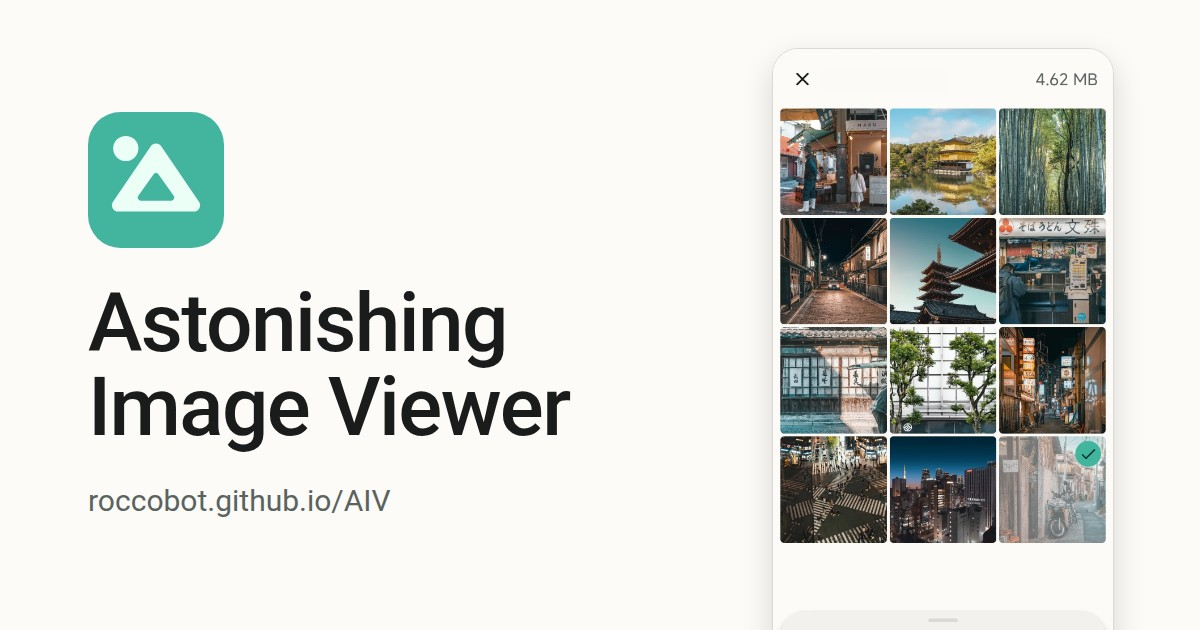
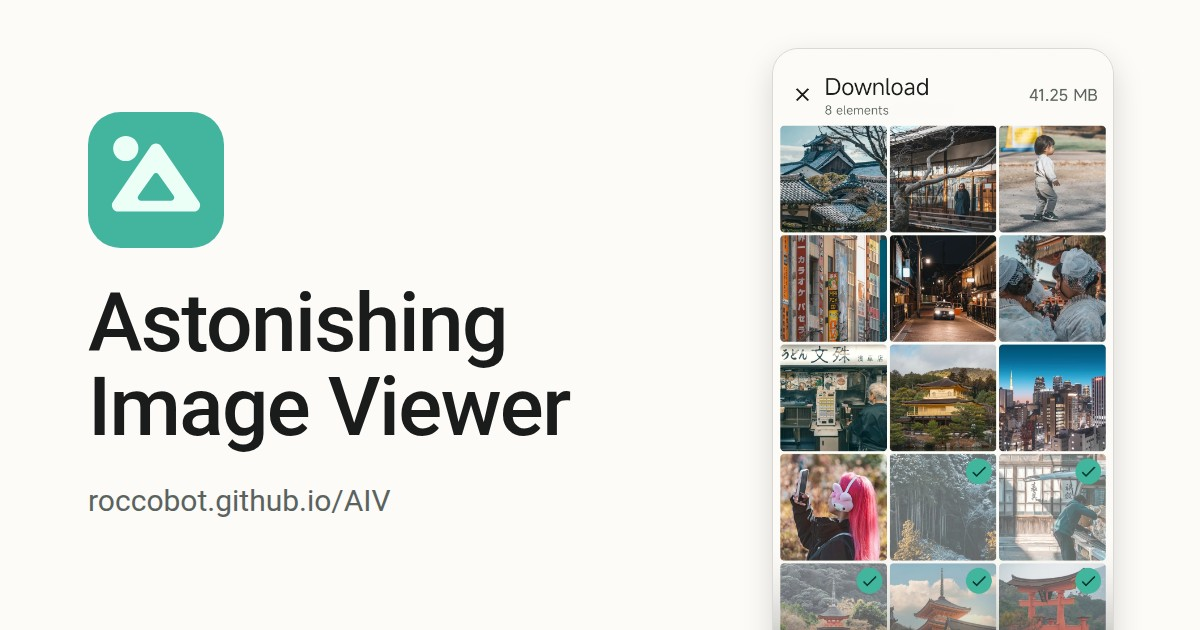
AIV/: l'anteprima del link con la schermata verticale nuova
Copia di publish/ del repo di AIV (Roccobot/AIV#740, scelta Seguito-01):
anteprima.jpg rifatta con la schermata verticale chiara, la nota di
index.html aggiornata, e schermate/chiara.webp e scura.webp tolte, perché
non le legge più niente.

Agent: Claude Code
Claude-Session: https://claude.ai/code/session_01VDvHhZfZbbsX5dZx5iS6pW

Changed region(s): [[0.6167, 0.1206, 0.925, 1.0]]

diff --git a/AIV/index.html b/AIV/index.html
@@ -468,8 +468,8 @@
            OPPOSTO (la nota su `.schermata-blocco img` dice perché): un `<source>` scuro
            punta alle immagini `-chiara`, e l'`img` di partenza a quelle `-scura` (dal 2026-10-18 le due della testata incastrata, `desktop-*`,
            ricavate in WebP dai PNG originali da 2530 pixel che lui ha mandato in uno ZIP;
-           prima, dal 2026-09-02, la schermata di un telefono, `chiara` e `scura`, che
-           restano in `publish/schermate/` perché ne legge una `tools/og-image.py`).
+           prima, dal 2026-09-02, la schermata di un telefono, `chiara` e `scura`, tolte il
+           2026-10-28, quando `tools/og-image.py` è passato a `verticale-chiara`).
            ⚠ UN <picture> E NON DUE <img> NASCOSTI A TURNO: così il browser ne
            scarica UNA sola, e la sceglie prima di disegnare.
            ⚠⚠ **DA QUANDO C'È IL TASTO DEL TEMA, LA MEDIA QUERY QUI SOTTO NON BASTA
